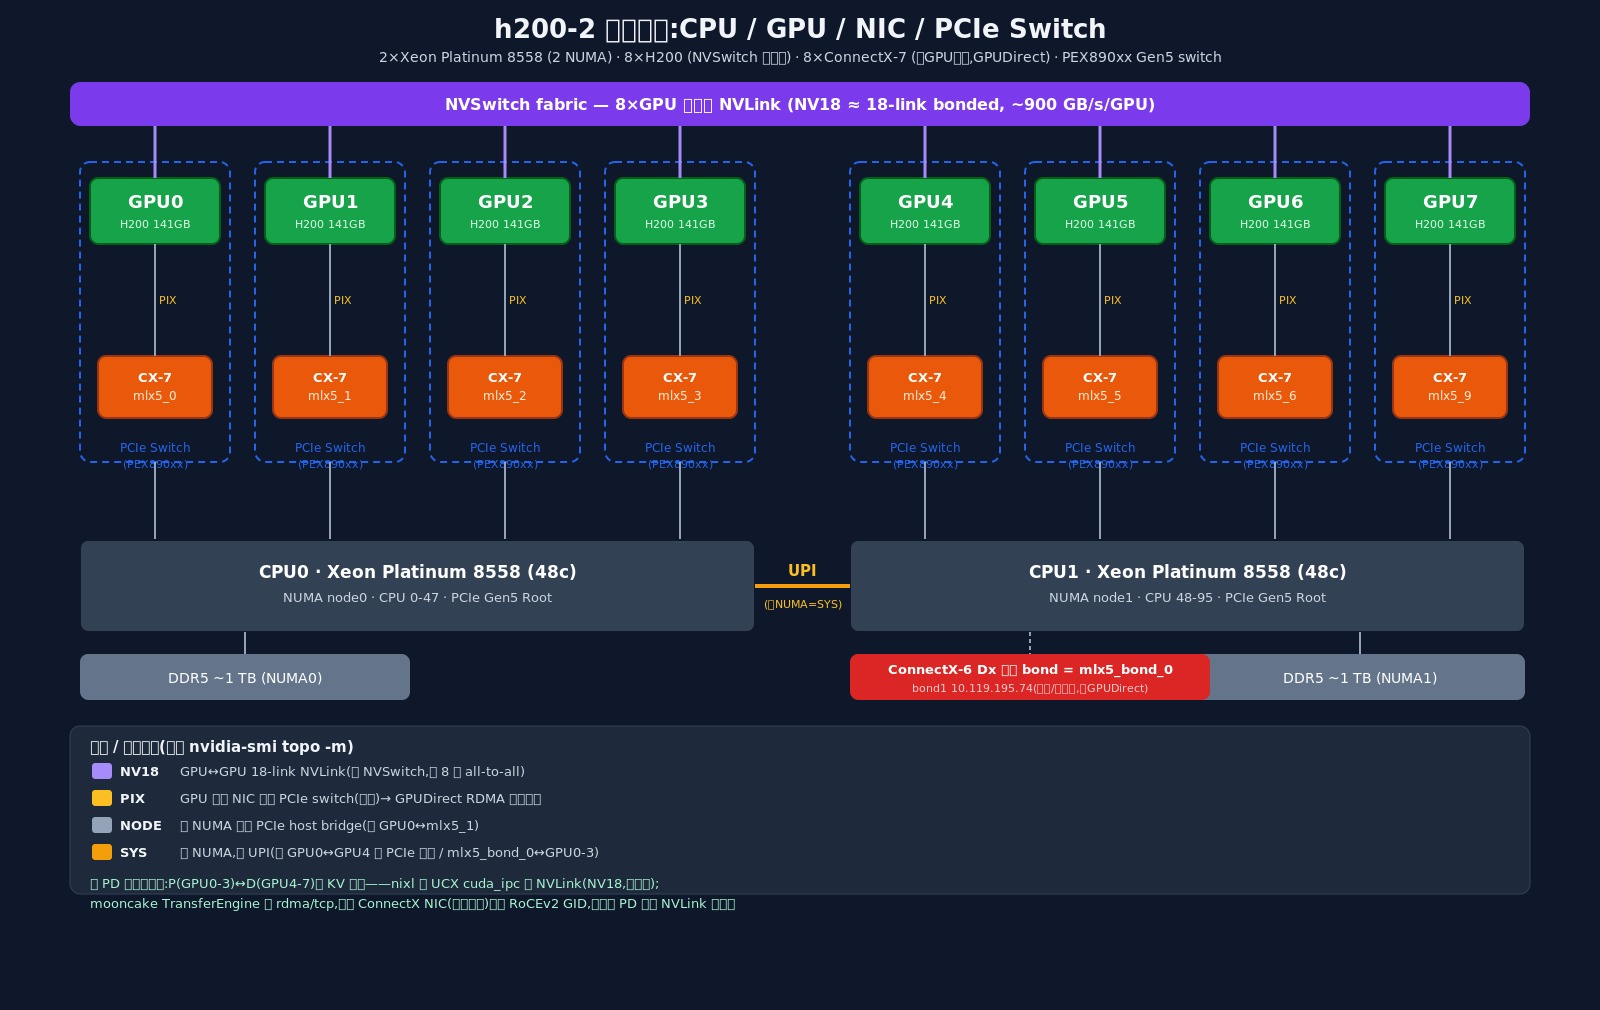
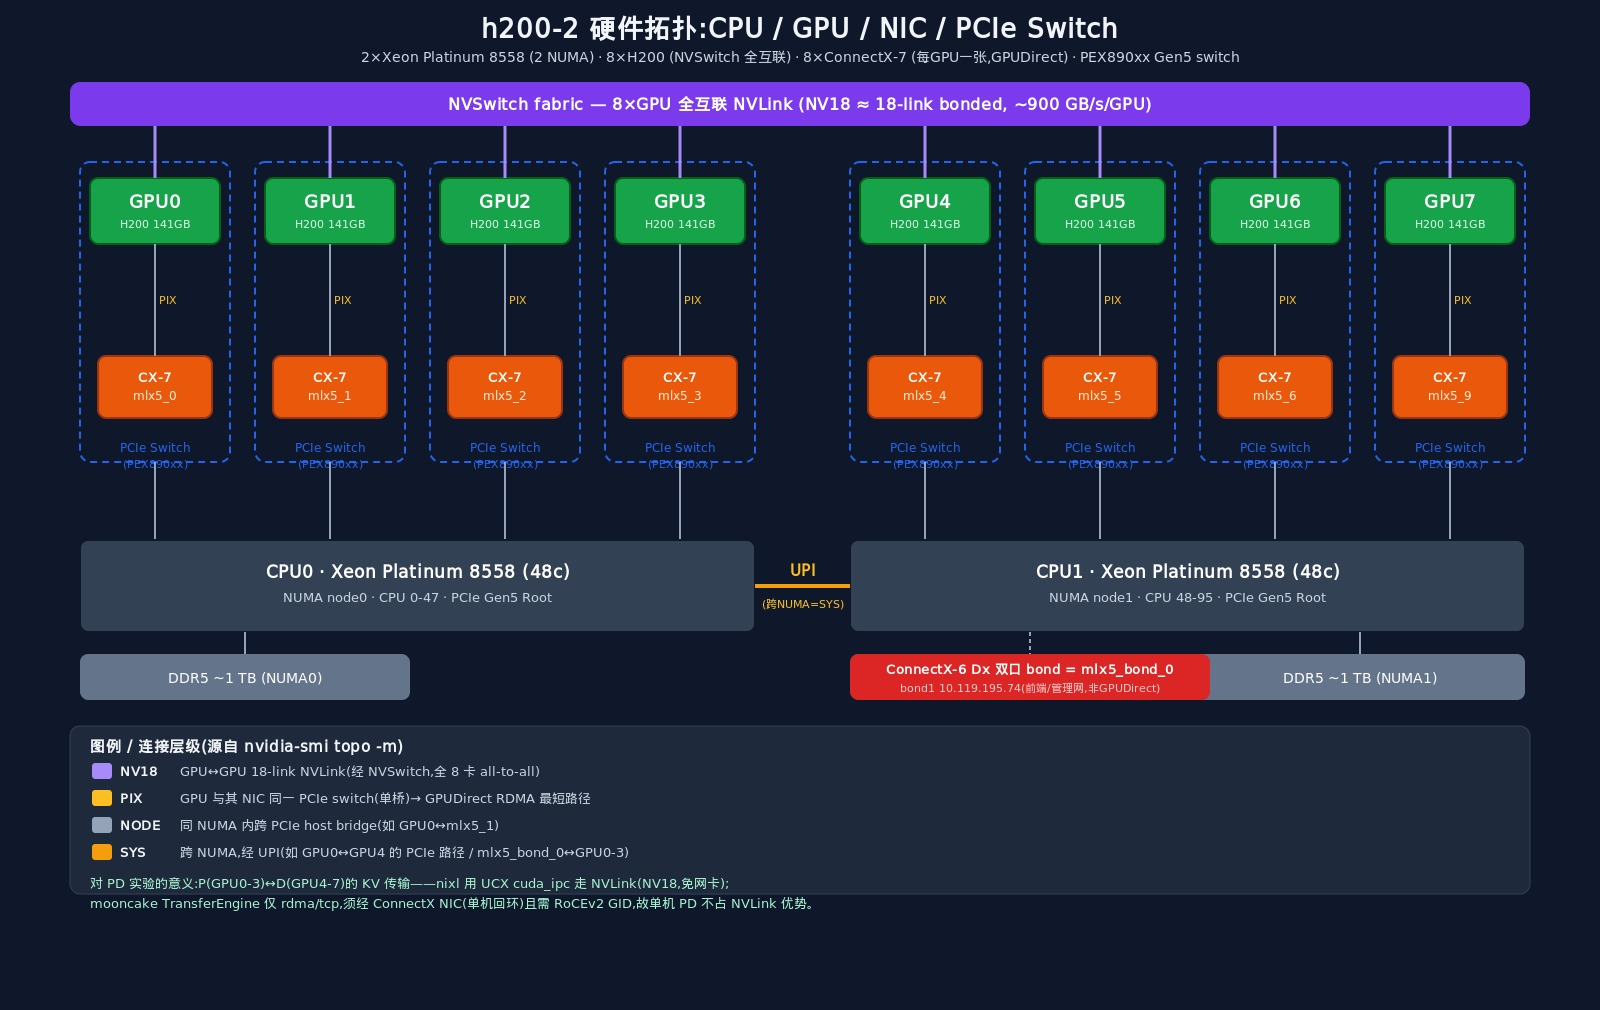
develop(test4): 修复拓扑图中文乱码(改用 MergedCJKLatin 单字体)
cairosvg 用 cairo toy font 不做逐字形 fallback,须单一含 CJK+Latin 字体;
换用 /root/.fonts/MergedCJKLatin.ttf,中英文全部正常渲染。

diff --git a/develop/experiments/test4-mooncake-cpu-bypass/make_topology.py b/develop/experiments/test4-mooncake-cpu-bypass/make_topology.py
@@ -10,6 +10,9 @@ import os
 
 HERE = os.path.dirname(os.path.abspath(__file__))
 W, H = 1600, 1010
+# cairosvg 用 cairo toy font,不做逐字形 fallback,须用单一含 CJK+Latin 的字体。
+# a100-2 /root/.fonts/MergedCJKLatin.ttf 正是合并字体(中英文全覆盖)。
+FONT = "MergedCJKLatin"
 
 # 每 GPU 一条 lane;(GPU 名, NIC 名, NUMA)
 NUMA0 = [("GPU0", "CX-7\nmlx5_0"), ("GPU1", "CX-7\nmlx5_1"),
@@ -41,7 +44,7 @@ def text(x, y, t, size=15, col=C["txt"], anchor="middle", weight="normal"):
     for k, ln in enumerate(t.split("\n")):
         s.append(f'<text x="{x}" y="{y + k*(size+2)}" font-size="{size}" '
                  f'fill="{col}" text-anchor="{anchor}" font-weight="{weight}" '
-                 f'font-family="DejaVu Sans, sans-serif">{ln}</text>')
+                 f'font-family="{FONT}">{ln}</text>')
 
 s.append(f'<svg xmlns="http://www.w3.org/2000/svg" width="{W}" height="{H}" '
          f'viewBox="0 0 {W} {H}">')
